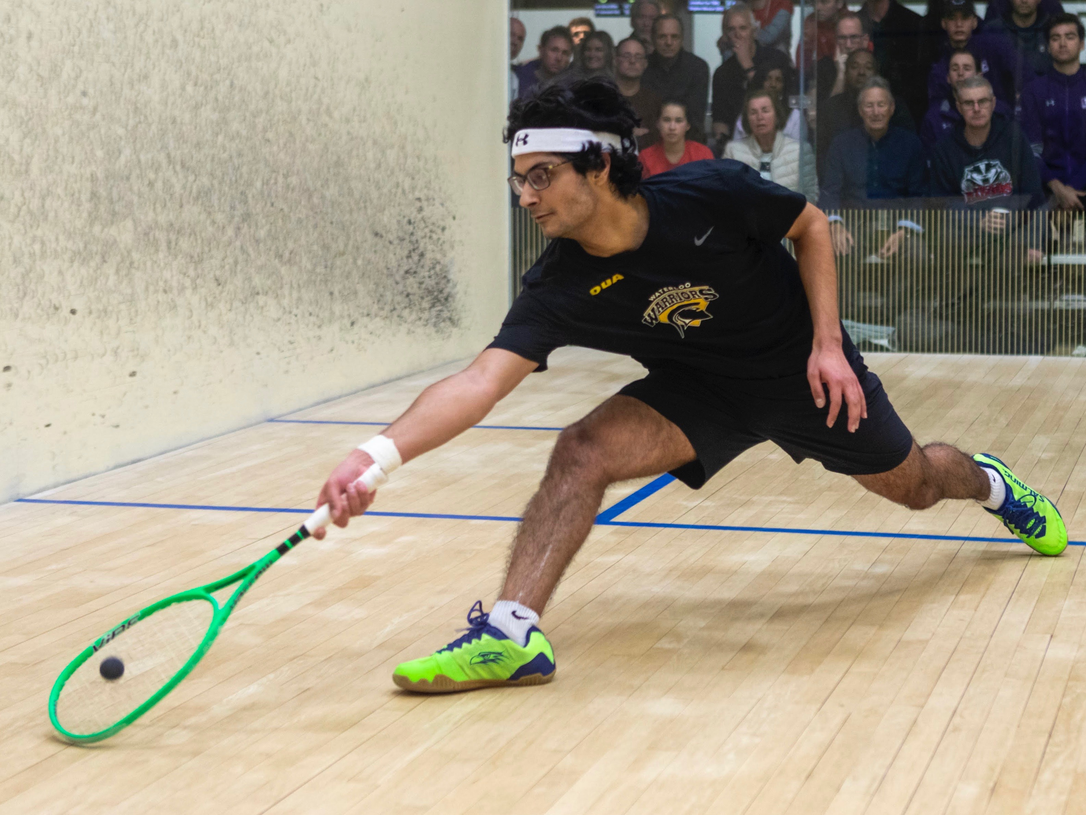
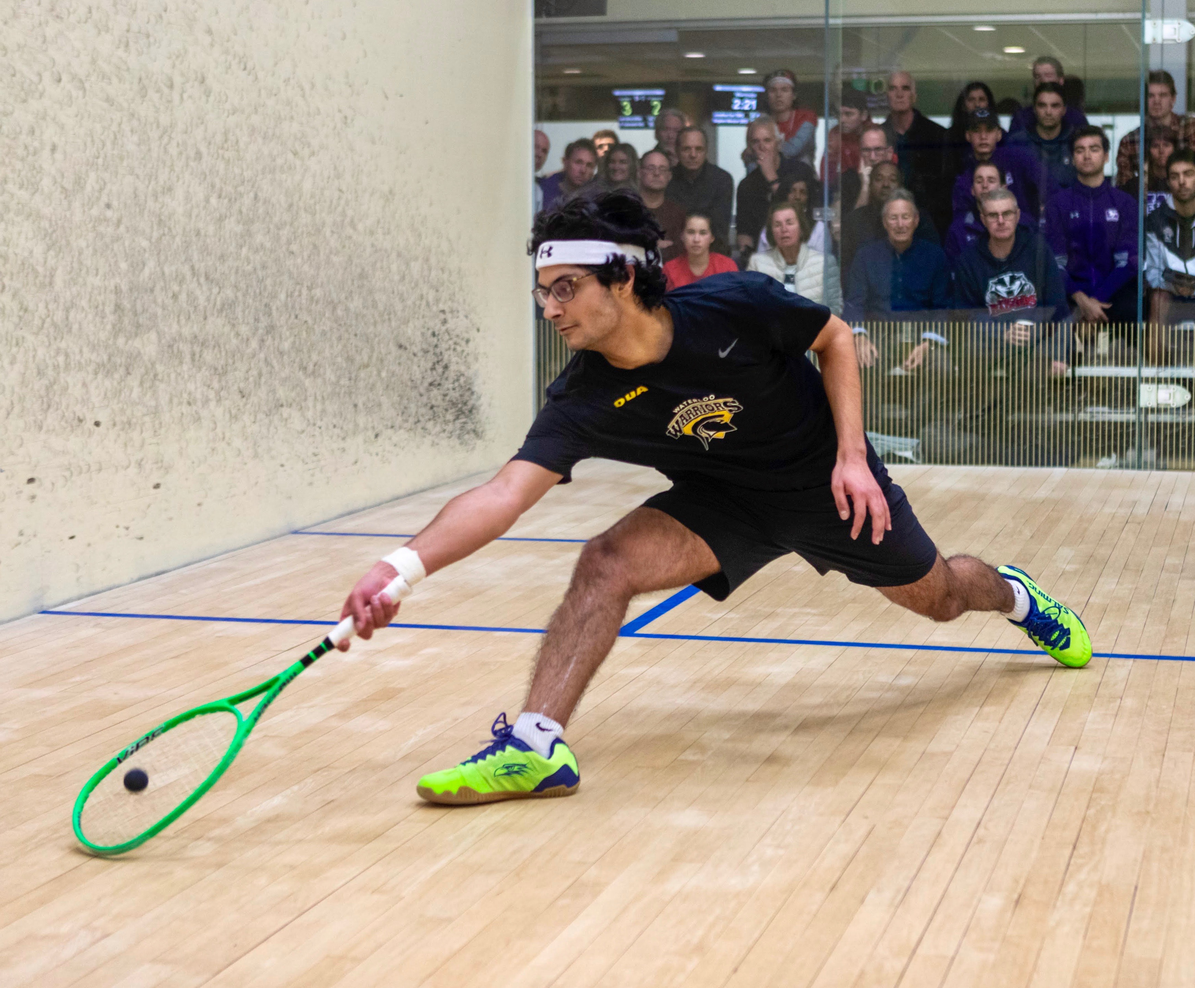
updating image carousel and podcast/book cards

diff --git a/index.html b/index.html
@@ -178,7 +178,7 @@
 					</div>
 					<div class="row">
 						<div class="col-sm-12 col-md-6 squash-section">
-							<div id="carouselExampleIndicators" class="carousel slide" data-ride="carousel">
+							<div id="carouselExampleIndicators" class="carousel slide horizontal-center vertical-center" data-ride="carousel">
 								<ol class="carousel-indicators">
 								<li data-target="#carouselExampleIndicators" data-slide-to="0" class="active"></li>
 								<li data-target="#carouselExampleIndicators" data-slide-to="1"></li>
@@ -220,7 +220,6 @@
 									<p><i class="fa fa-angle-right" aria-hidden="true"></i> Double Medalist at the Canada Winter Games for Team Ontario</p>
 									<p><i class="fa fa-angle-right" aria-hidden="true"></i> Squash Ontario Player of the Year & Recipient of Jim Mason Fair Play Award</p>
 									<p><i class="fa fa-angle-right" aria-hidden="true"></i> Represented Canada at the Pan-Am Junior Championships</p>
-								<br>
 								<a class="btn btn-secondary btm-md" href="https://www.youtube.com/watch?v=dRhEoNoeR7A" target="_blank"><i class="fa fa-play-circle" aria-hidden="true"></i><strong> Watch me on TSN</strong></a>
 							</div>
 						</div>
@@ -228,7 +227,7 @@
 					<div class="row justify-content-center">
 						<div class="col-md-12 col-lg-6">
 							<div class="card interests-card">
-								<div class="card-body">
+								<div class="card-body horizontal-center">
 									<h4 class="interests-header">Recent Books I Have Read</h4>
 									<div class="heading-underline"></div>
 									<br>
@@ -289,7 +288,7 @@
 						</div>
 						<div class="col-md-12 col-lg-6">
 							<div id="podcasts-card" class="card interests-card">
-								<div class="card-body">
+								<div class="card-body horizontal-center">
 									<h4 class="interests-header">My Favourite Podcasts</h4>
 									<div class="heading-underline"></div>
 									<br>

diff --git a/style.css b/style.css
@@ -38,6 +38,12 @@ img {
   box-shadow: 0 2px 2px 0 rgba(0, 0, 0, 0.2);
 }
 
+.horizontal-center {
+  display: block;
+  margin-left: auto;
+  margin-right: auto;
+}
+
 
 /*--- Navigation --*/
 
@@ -263,11 +269,12 @@ img {
 .carousel {
   width: 32rem;
   max-width: 100%;
+  border-radius: 0.25rem;
 }
 
 .carousel img {
-  height: 30rem;
-  border-radius: 0.25rem;
+  width: 100%;
+  height: auto;
 }
 
 #squash .btn-secondary {
@@ -279,8 +286,6 @@ img {
   background-color: #a60000;
   border-color: #a60000;
 }
-
-
 
 .interests-card {
   background-color: #fafafa;
